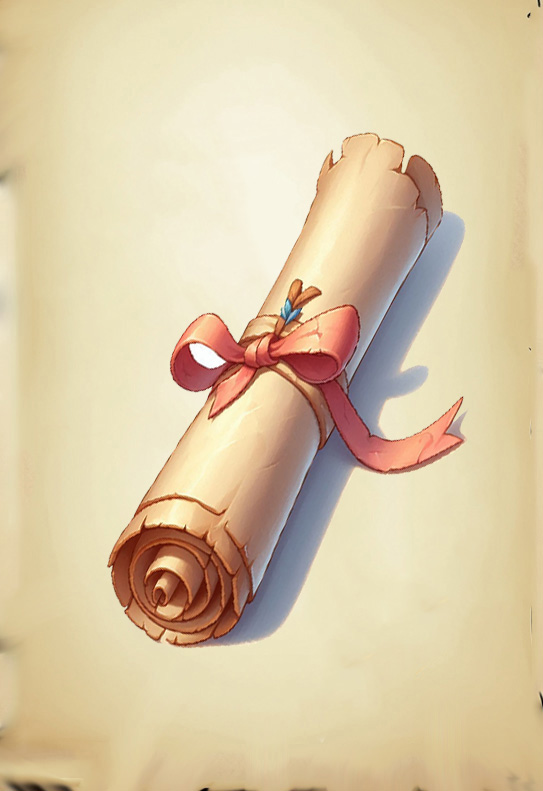
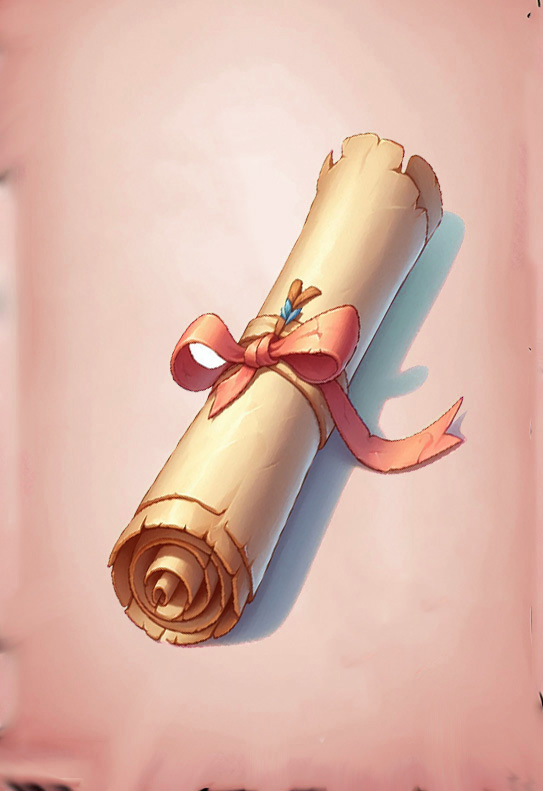
Rubínová cesta - Karty v 5

diff --git a/rubypath/rubypath.html b/rubypath/rubypath.html
@@ -152,7 +152,7 @@ text {
     </div>
   
     <div class="card item">
-      <div class="image" style="background-image: url('ilus/magickyrubin2.jpg')"></div>
+      <div class="image" style="background-image: url('ilus/magickyrubin.jpg')"></div>
       <div class="frame"></div>
       <div class="name"><span> Magický rubín </span></div>
       <div class="text"><span></span></div>
